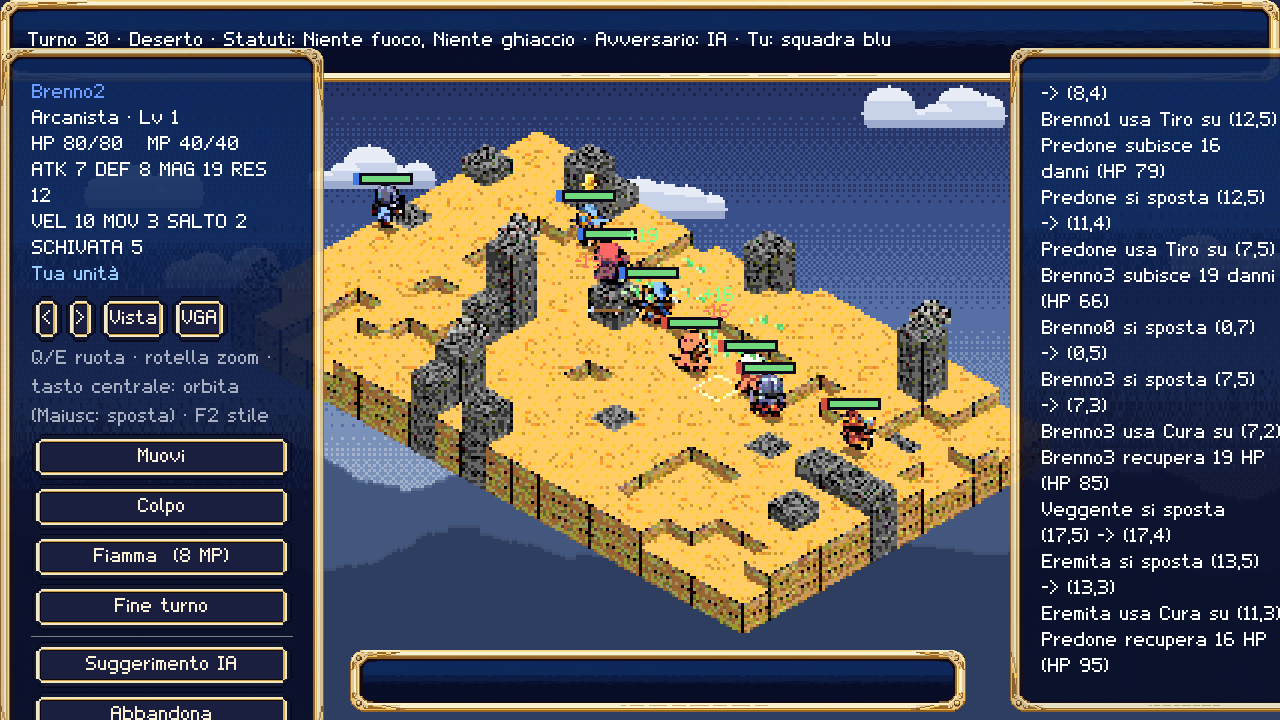
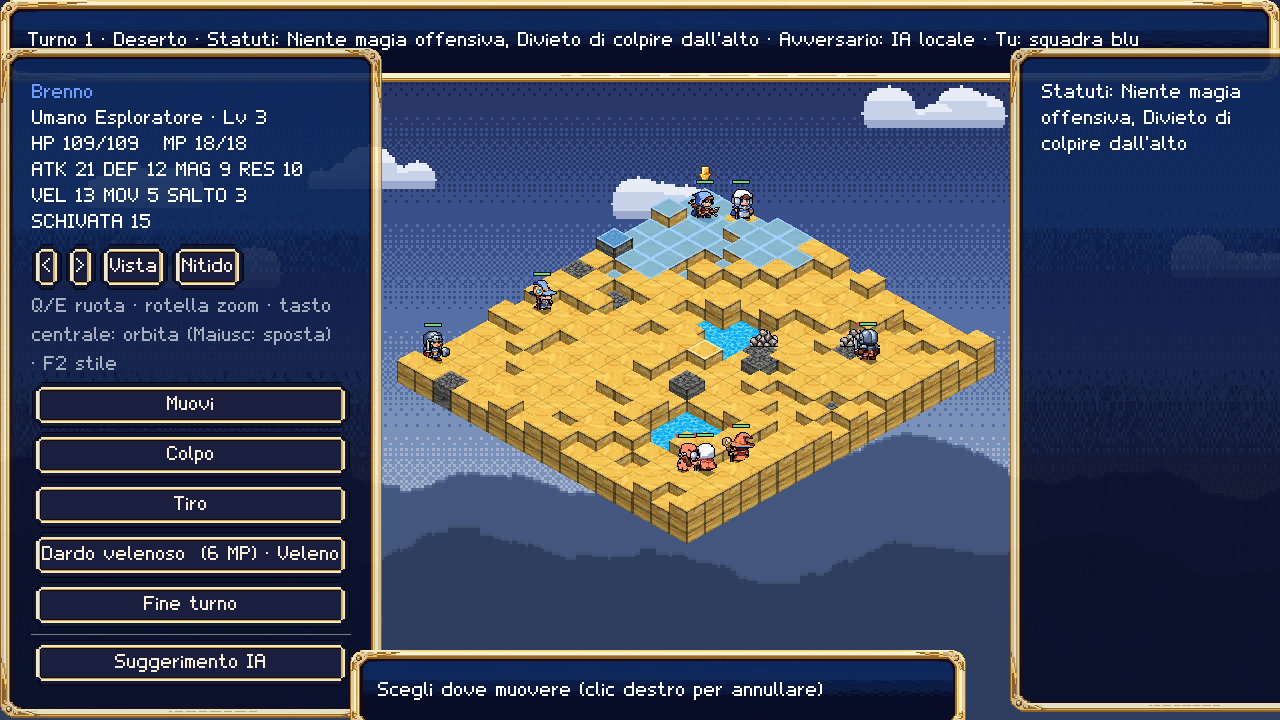
Caselle evidenziate, viste isometriche e terreno più nitido
- Caselle raggiungibili in azzurro a inizio turno; portata di attacchi e
  incantesimi in rosso, oggetti in verde, con pulsazione e bordo chiaro.
- Rotazione solo fra le quattro viste isometriche (anche dopo l'orbita).
- Stile predefinito "Nitido" a risoluzione piena; nuovo stile "Pixel";
  scelta dello stile salvata.
- Mipmap sul terreno, filo di 1 pixel fra le sommità.
- Inquadratura centrata nello spazio libero fra i pannelli.
- Documentazione e immagini aggiornate.

diff --git a/tools/pixelart/pixellab_terrain.py b/tools/pixelart/pixellab_terrain.py
@@ -115,6 +115,18 @@ def fix_top_edge(im: Image.Image) -> Image.Image:
     return im
 
 
+def edge(im: Image.Image) -> Image.Image:
+    """Filo sottile sui lati destro e basso della sommità: fra caselle vicine
+    resta una linea di 1 pixel, che definisce la griglia senza appesantirla."""
+    im = im.copy()
+    px = im.load()
+    for i in range(C):
+        for x, y, k in ((C - 1, i, 0.72), (i, C - 1, 0.72), (0, i, 1.08), (i, 0, 1.08)):
+            r, g, b, a = px[x, y]
+            px[x, y] = (min(255, int(r * k)), min(255, int(g * k)), min(255, int(b * k)), a)
+    return im
+
+
 def opaque(im: Image.Image) -> Image.Image:
     """Le sommità e i fianchi devono essere pieni (niente trasparenze)."""
     bg = Image.new("RGBA", im.size, im.resize((1, 1), Image.BILINEAR).getpixel((0, 0))[:3] + (255,))
@@ -136,7 +148,9 @@ def main() -> None:
     sheet = Image.new("RGBA", (5 * C, 7 * C), (0, 0, 0, 0))
     for r, (top3, side, side_top) in enumerate(rows):
         for c, im in enumerate(top3):
-            sheet.paste(opaque(no_border(im)), (c * C, r * C))
+            top = opaque(no_border(im))
+            # Acqua e lava scorrono: il filo si muoverebbe con loro.
+            sheet.paste(top if r in (3, 4) else edge(top), (c * C, r * C))
         sheet.paste(opaque(fix_top_edge(side)), (3 * C, r * C))
         sheet.paste(opaque(fix_top_edge(side_top)), (4 * C, r * C))
     for c in range(4):

diff --git a/docs/CLIENT.md b/docs/CLIENT.md
@@ -4,15 +4,17 @@ Il progetto Godot 4.7 è in `client/`; l'estensione Rust (GDExtension) che porta
 
 La battaglia è in **3D ruotabile** con estetica **VGA/SVGA**:
 
-- **Mappa:** colonne di caselle con texture pixel-art a 16×16; acqua e lava animate; cespugli e sassi come sprite.
+- **Mappa:** colonne di caselle con texture pixel-art a 32×32 (PixelLab), con mipmap per le viste lontane e un filo di 1 pixel fra le sommità che rende leggibile la griglia; acqua e lava animate; cespugli e sassi come sprite.
 - **Personaggi:** sprite chibi verticali. A seconda dell'angolo da cui li guardi mostrano la vista frontale o posteriore, specchiata quando serve.
-- **Telecamera:** ortogonale e orbitale, con rotazione libera a 360°, inclinazione tra 20° e 70° e zoom limitato fra un primo piano e la mappa intera.
-- **Resa a bassa risoluzione:**
-  - **VGA:** 1/3 della finestra, circa 426×240, con 6 livelli per canale e retino di Bayer;
-  - **SVGA:** 1/2 della finestra, con 10 livelli;
-  - **Nitido:** senza filtro.
+- **Telecamera:** ortogonale e orbitale, con inclinazione tra 20° e 70° e zoom limitato fra un primo piano e la mappa intera. La rotazione si ferma sempre su una delle quattro viste isometriche (45°, 135°, 225°, 315°): anche dopo l'orbita col tasto centrale la vista torna alla diagonale più vicina, così la mappa non appare mai "dritta" e deformata.
+- **Stili di resa** (F2 o il pulsante dello stile; la scelta resta salvata):
+  - **Nitido** (predefinito): risoluzione piena, la pixel-art dei terreni si vede per intero;
+  - **Pixel:** 1/2 della finestra, pixel più grossi, senza filtro;
+  - **SVGA:** 1/2 della finestra, con 10 livelli per canale e retino;
+  - **VGA:** 1/3 della finestra, con 6 livelli per canale e retino di Bayer.
 
-  L'immagine viene ingrandita senza sfocatura; il tasto F2 o il pulsante dello stile passa da uno stile all'altro.
+  Negli stili ridotti l'immagine viene ingrandita senza sfocatura.
+- **Caselle evidenziate:** all'inizio del proprio turno compaiono subito, in azzurro, le caselle raggiungibili. Scegliendo un'abilità tutta la sua portata si colora di rosso (pieno dove c'è un'unità, tenue altrove); per gli oggetti in verde. Le caselle pulsano e hanno un bordo chiaro, visibili su ogni terreno.
 - **Sopra la scena:** barre degli HP, colore di squadra e numeri fluttuanti, sempre leggibili.
 
 Le texture vengono da `tools/pixelart` (vedi il suo README). Tutto è pixel-art originale:
@@ -130,7 +132,7 @@ Il pacchetto Windows è stato provato con Wine, offline e contro un server local
 Comandi:
 
 - clic sinistro per scegliere la casella, clic destro per annullare;
-- Q/E o i pulsanti ⟲/⟳ ruotano di 45°; R o "Vista" riporta la vista iniziale;
+- Q/E o i pulsanti ⟲/⟳ ruotano di 90°, da una vista isometrica all'altra; R o "Vista" riporta la vista iniziale;
 - rotella per lo zoom;
 - tasto centrale trascinato: orbita e inclinazione (con Maiusc sposta la vista);
 - F2 cambia stile grafico.

diff --git a/README.md b/README.md
@@ -44,7 +44,8 @@ Tutto è originale: regole, storia, nomi, grafica, musica ed effetti sonori. Mus
 - **9 Statuti** estratti a sorte (per esempio «Niente cure» o «Divieto di colpire dall'alto»). Chi li viola viene sospeso e poi espulso.
 - **8 status alterati:** veleno, sonno, silenzio, lentezza, radici, rapidità, egida, rigenerazione.
 - **Anteprima del danno** e **suggerimento dell'IA** per ogni mossa.
-- **Telecamera libera:** rotazione a 360°, inclinazione, zoom. Tre stili di resa: VGA (con retino), SVGA e nitido.
+- **Telecamera:** quattro viste isometriche, inclinazione, zoom. Quattro stili di resa: nitido (predefinito), pixel, SVGA e VGA (con retino).
+- **Caselle evidenziate:** raggiungibili in azzurro a inizio turno, portata di attacchi e incantesimi in rosso, oggetti in verde.
 
 ### Progressione
 
@@ -116,10 +117,10 @@ Le icone degli oggetti: 37 basi, 16 leggendari, 32 consumabili (pozioni, bombe, 
 | Comando | Effetto |
 |---|---|
 | clic sulla mappa | sceglie la casella (movimento o bersaglio) |
-| Q / E | ruota la mappa |
+| Q / E | ruota la mappa fra le quattro viste isometriche |
 | rotella | zoom |
 | tasto centrale | orbita; con Maiusc sposta la vista |
-| F2 | cambia stile: VGA, SVGA, nitido |
+| F2 | cambia stile: nitido, pixel, SVGA, VGA |
 | «Suggerimento IA» | mostra la mossa consigliata |
 
 Ogni unità, nel suo turno, può muoversi e agire una volta. Prima di confermare un attacco vedi danno e probabilità di colpire. Tieni d'occhio gli Statuti in alto: violarli costa caro.
@@ -248,7 +249,7 @@ I pacchetti per i giocatori includono il motore [Godot Engine](https://godotengi
 
 **Tactica** is an original turn-based fantasy tactics game with pixel art, playable solo, co-op or competitively on a self-hosted server. The game text is in Italian.
 
-- **Isometric battles** on seeded procedural maps with height, fully rotatable in 3D. Rendering is styled after the VGA and SVGA era (with Bayer dithering).
+- **Isometric battles** on seeded procedural maps with height, with four isometric views. Crisp full-resolution pixel art by default, plus optional VGA and SVGA era styles (with Bayer dithering). Reachable tiles and attack/spell ranges are highlighted.
 - **Statutes:** random battle rules; breaking one gets a unit suspended, then expelled.
 - **Progression:** 12 classes, 75 class abilities, 32 consumables (potions, bombs, spell scrolls) and procedurally generated gear. Abilities are learned from equipment and mastered with resonance points.
 - **Modes:** single-player campaign with tutorial, PvE, offline skirmish, ELO-matched PvP, 2-6 player co-op clan missions, clan wars (up to 6v6), clan tournaments, ranked seasons.
